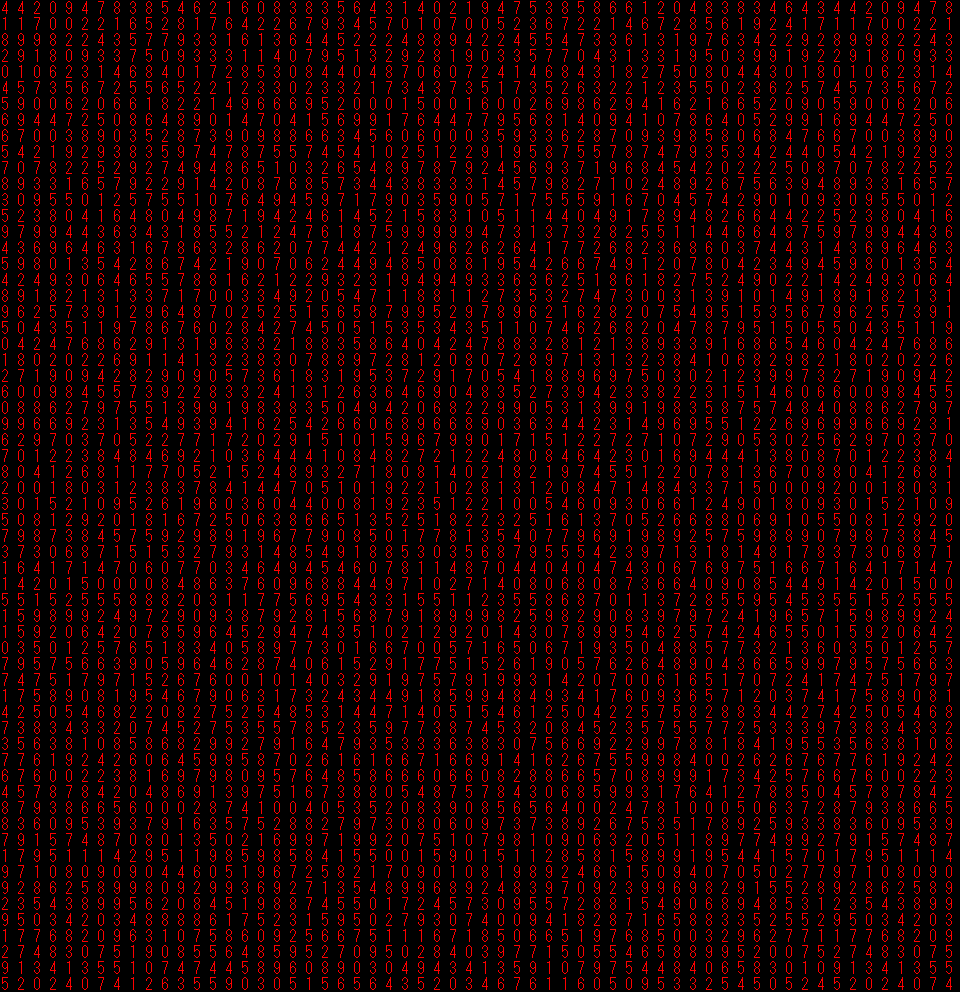
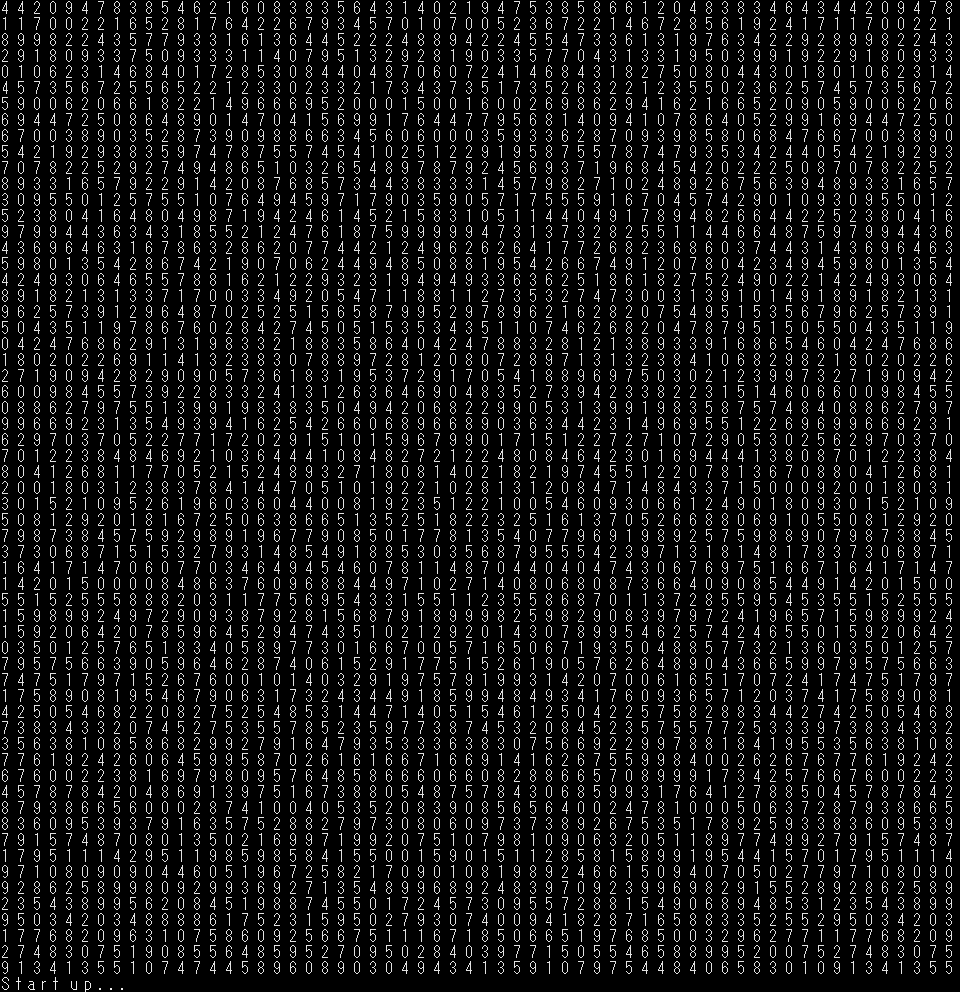
スタート演出

diff --git a/Solution/App/SceneStage.cpp b/Solution/App/SceneStage.cpp
@@ -313,8 +313,6 @@ void SceneStage::drawCountdown( ) const {
 	ApplicationPtr app = Application::getInstance( );
 	const int WIDTH = app->getWindowWidth( );
 	const int HEIGHT = app->getWindowHeight( );
-	const int WIDTH_NUM = 30;
-	const int HEIGHT_NUM = 31;
 	const int IMG_HEIGHT = 992;
 	int width = WIDTH / 2;
 	int height = HEIGHT / 2;
@@ -331,6 +329,8 @@ void SceneStage::drawCountdown( ) const {
 		int random_y = rand( ) % 300 - 150;
 		Drawer::Transform trans( 0, 0, 0, ( line * 32 ), 960, 540, WIDTH, HEIGHT );
 		drawer->setSprite( Drawer::Sprite( trans, GRAPH_MATRIX ) );
+		trans = Drawer::Transform( 0, 0, 0, 976, 960, 16, WIDTH, 16 * WIDTH / 960 );
+		drawer->setSprite( Drawer::Sprite( trans, GRAPH_MATRIX ) );
 		Drawer::Transform cover( -width / 2 - random_x, -height / 2 - random_y, 0, 0, 1280, 720, width / 2 - random_x, height / 2 - random_y );
 		drawer->setSprite( Drawer::Sprite( cover, GRAPH_MATRIX_ERASE ) );
 		cover = Drawer::Transform( WIDTH - width / 2 + random_x, -height / 2 - random_y, 0, 0, 1280, 720, WIDTH + width / 2 + random_x, height / 2 - random_y );
@@ -340,8 +340,14 @@ void SceneStage::drawCountdown( ) const {
 		cover = Drawer::Transform( WIDTH -width / 2 + random_x, HEIGHT - height / 2 + random_y, 0, 0, 1280, 720, WIDTH + width / 2 + random_x, HEIGHT + height / 2 + random_y );
 		drawer->setSprite( Drawer::Sprite( cover, GRAPH_MATRIX_ERASE ) );
 	} else {
+		int th = ( START_COUNTDOWN_TIME - _countdown ) * 16;
+		if ( th > 540 ) {
+			th = 540;
+		}
 		line = ( START_COUNTDOWN_TIME - _countdown ) % ( ( IMG_HEIGHT - 540 ) / 32 );
-		Drawer::Transform trans( 0, 0, 0, ( line * 32 ), 960, 540, WIDTH, HEIGHT );
+		Drawer::Transform trans( 0, 0, 0, ( line * 32 ), 960, th, WIDTH, th * HEIGHT / 540 );
+		drawer->setSprite( Drawer::Sprite( trans, GRAPH_MATRIX ) );
+		trans = Drawer::Transform( 0, 0, 0, 976, 960, 16, WIDTH, 16 * WIDTH / 960 );
 		drawer->setSprite( Drawer::Sprite( trans, GRAPH_MATRIX ) );
 	}
 	//Drawer::Transform trans( width / 2, height / 2, 0, ( line * 32 ), 960, 540, WIDTH - width / 2, HEIGHT - height / 2 );
